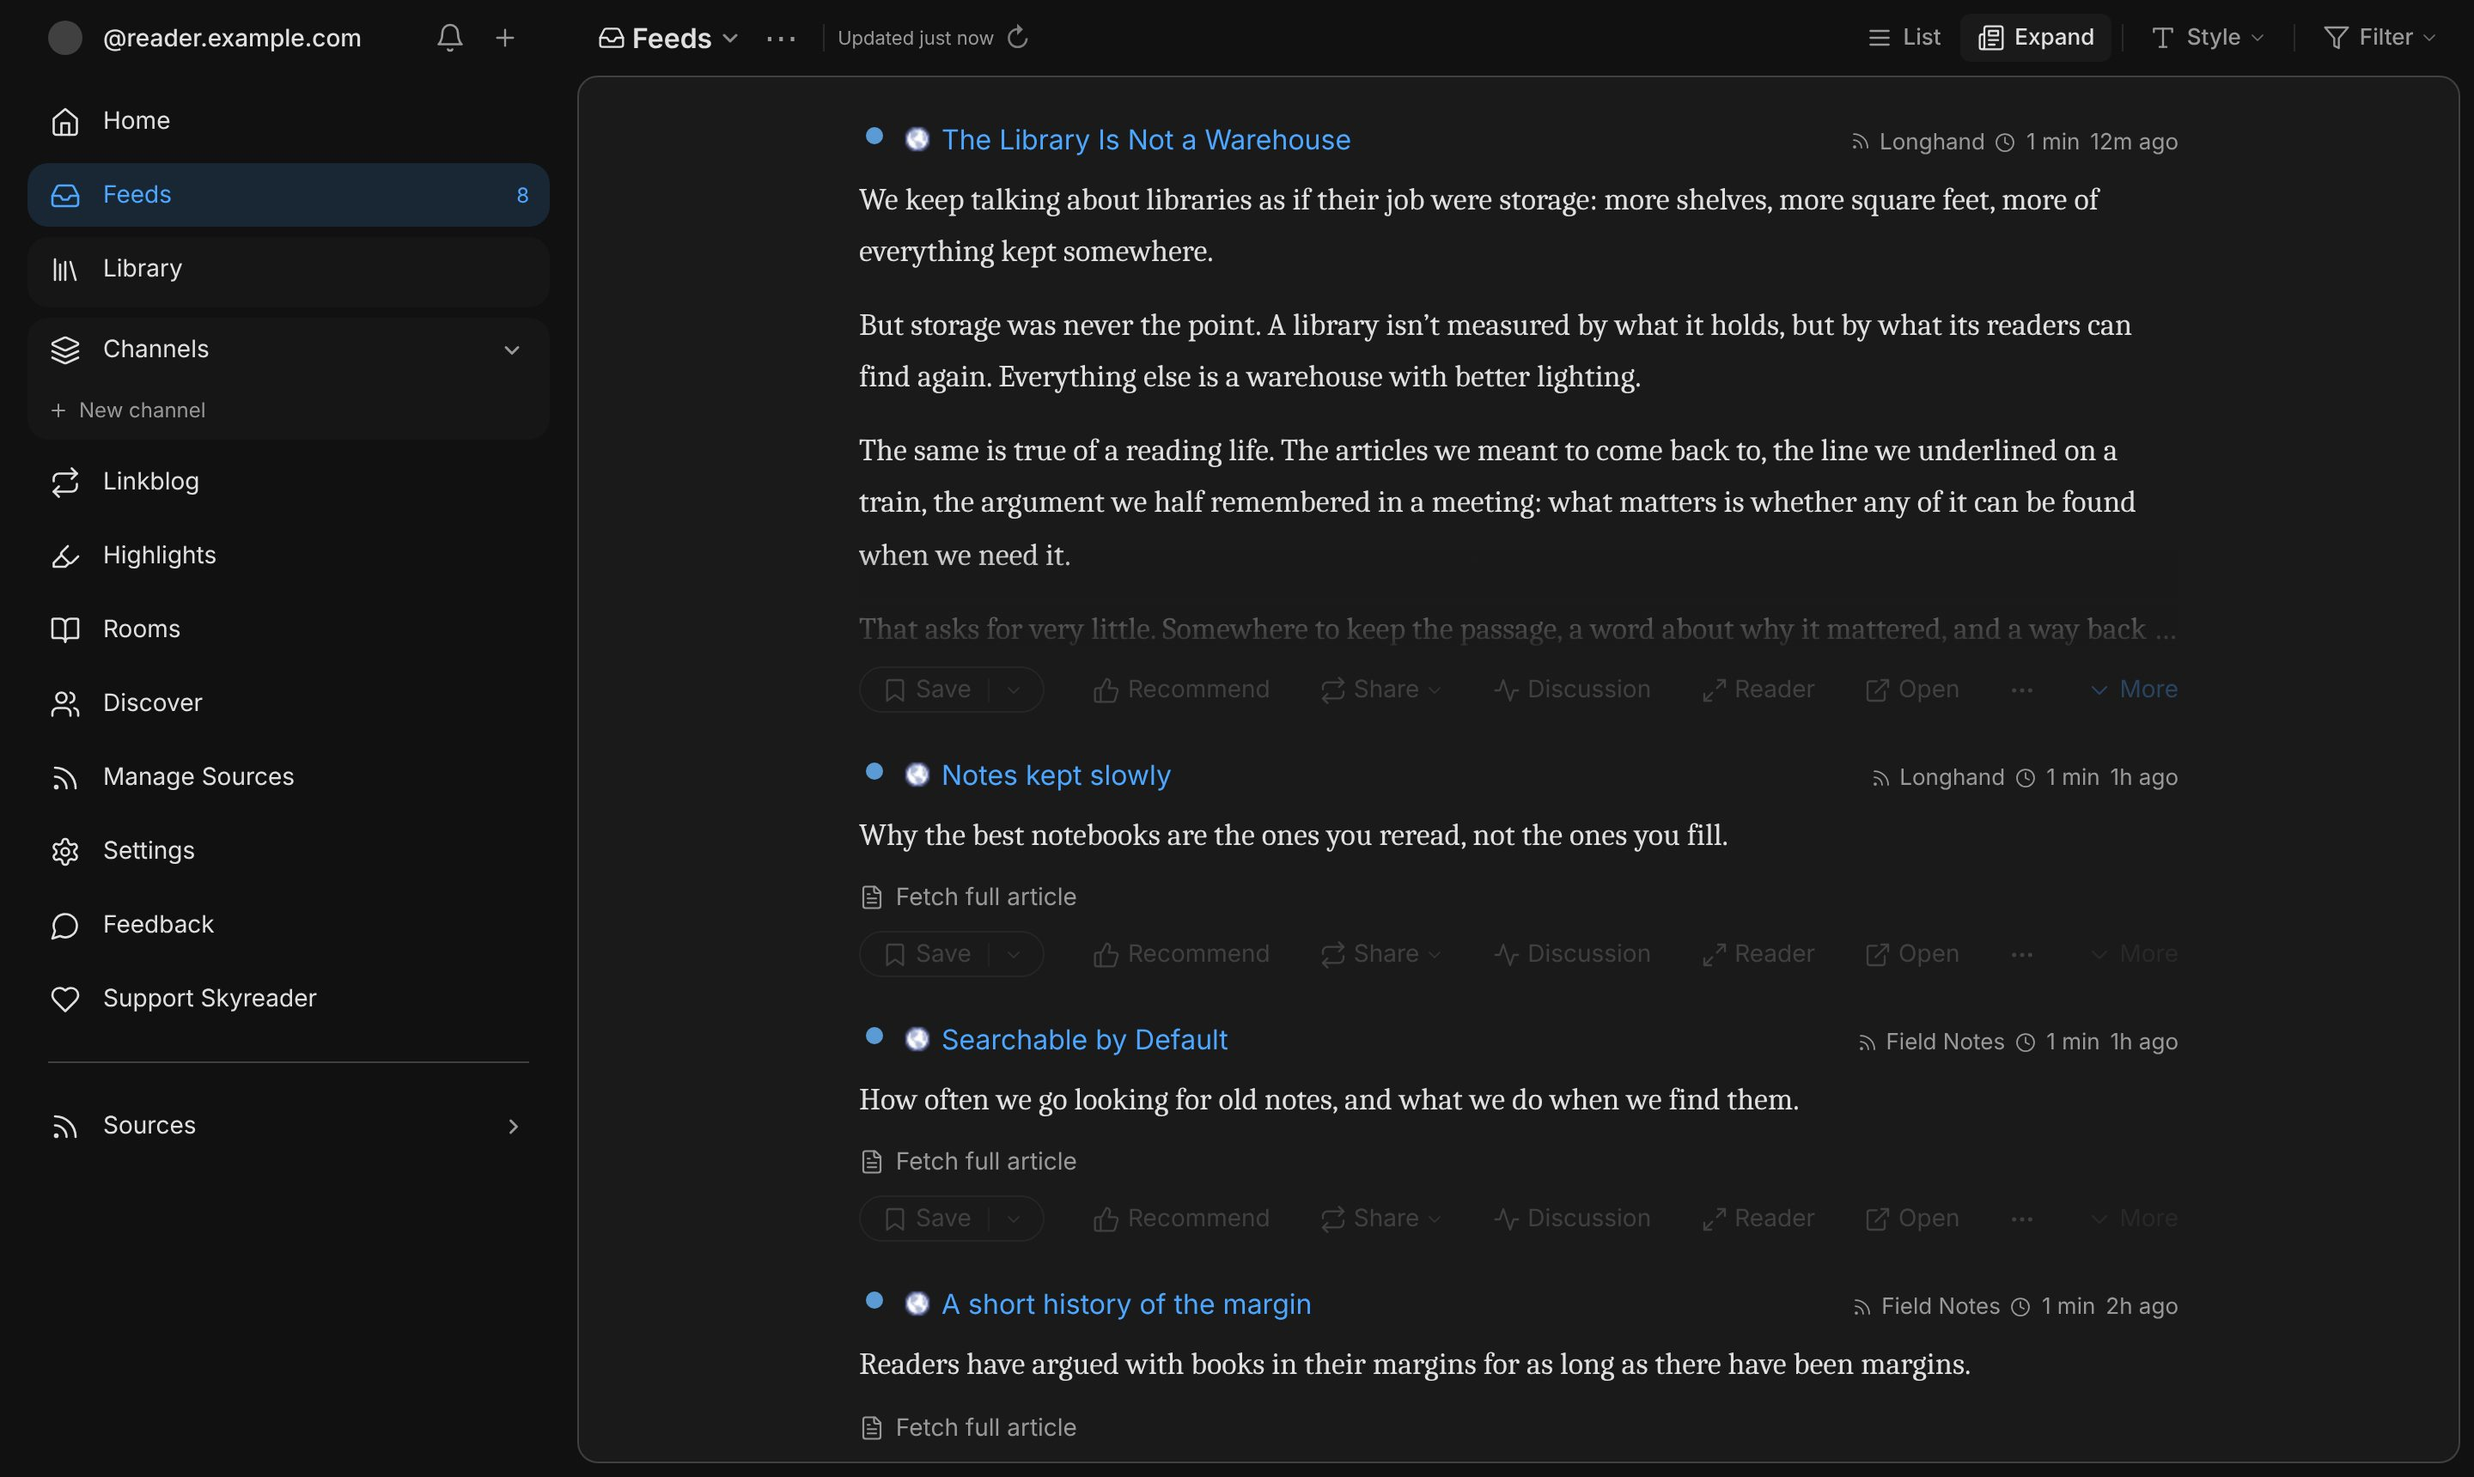
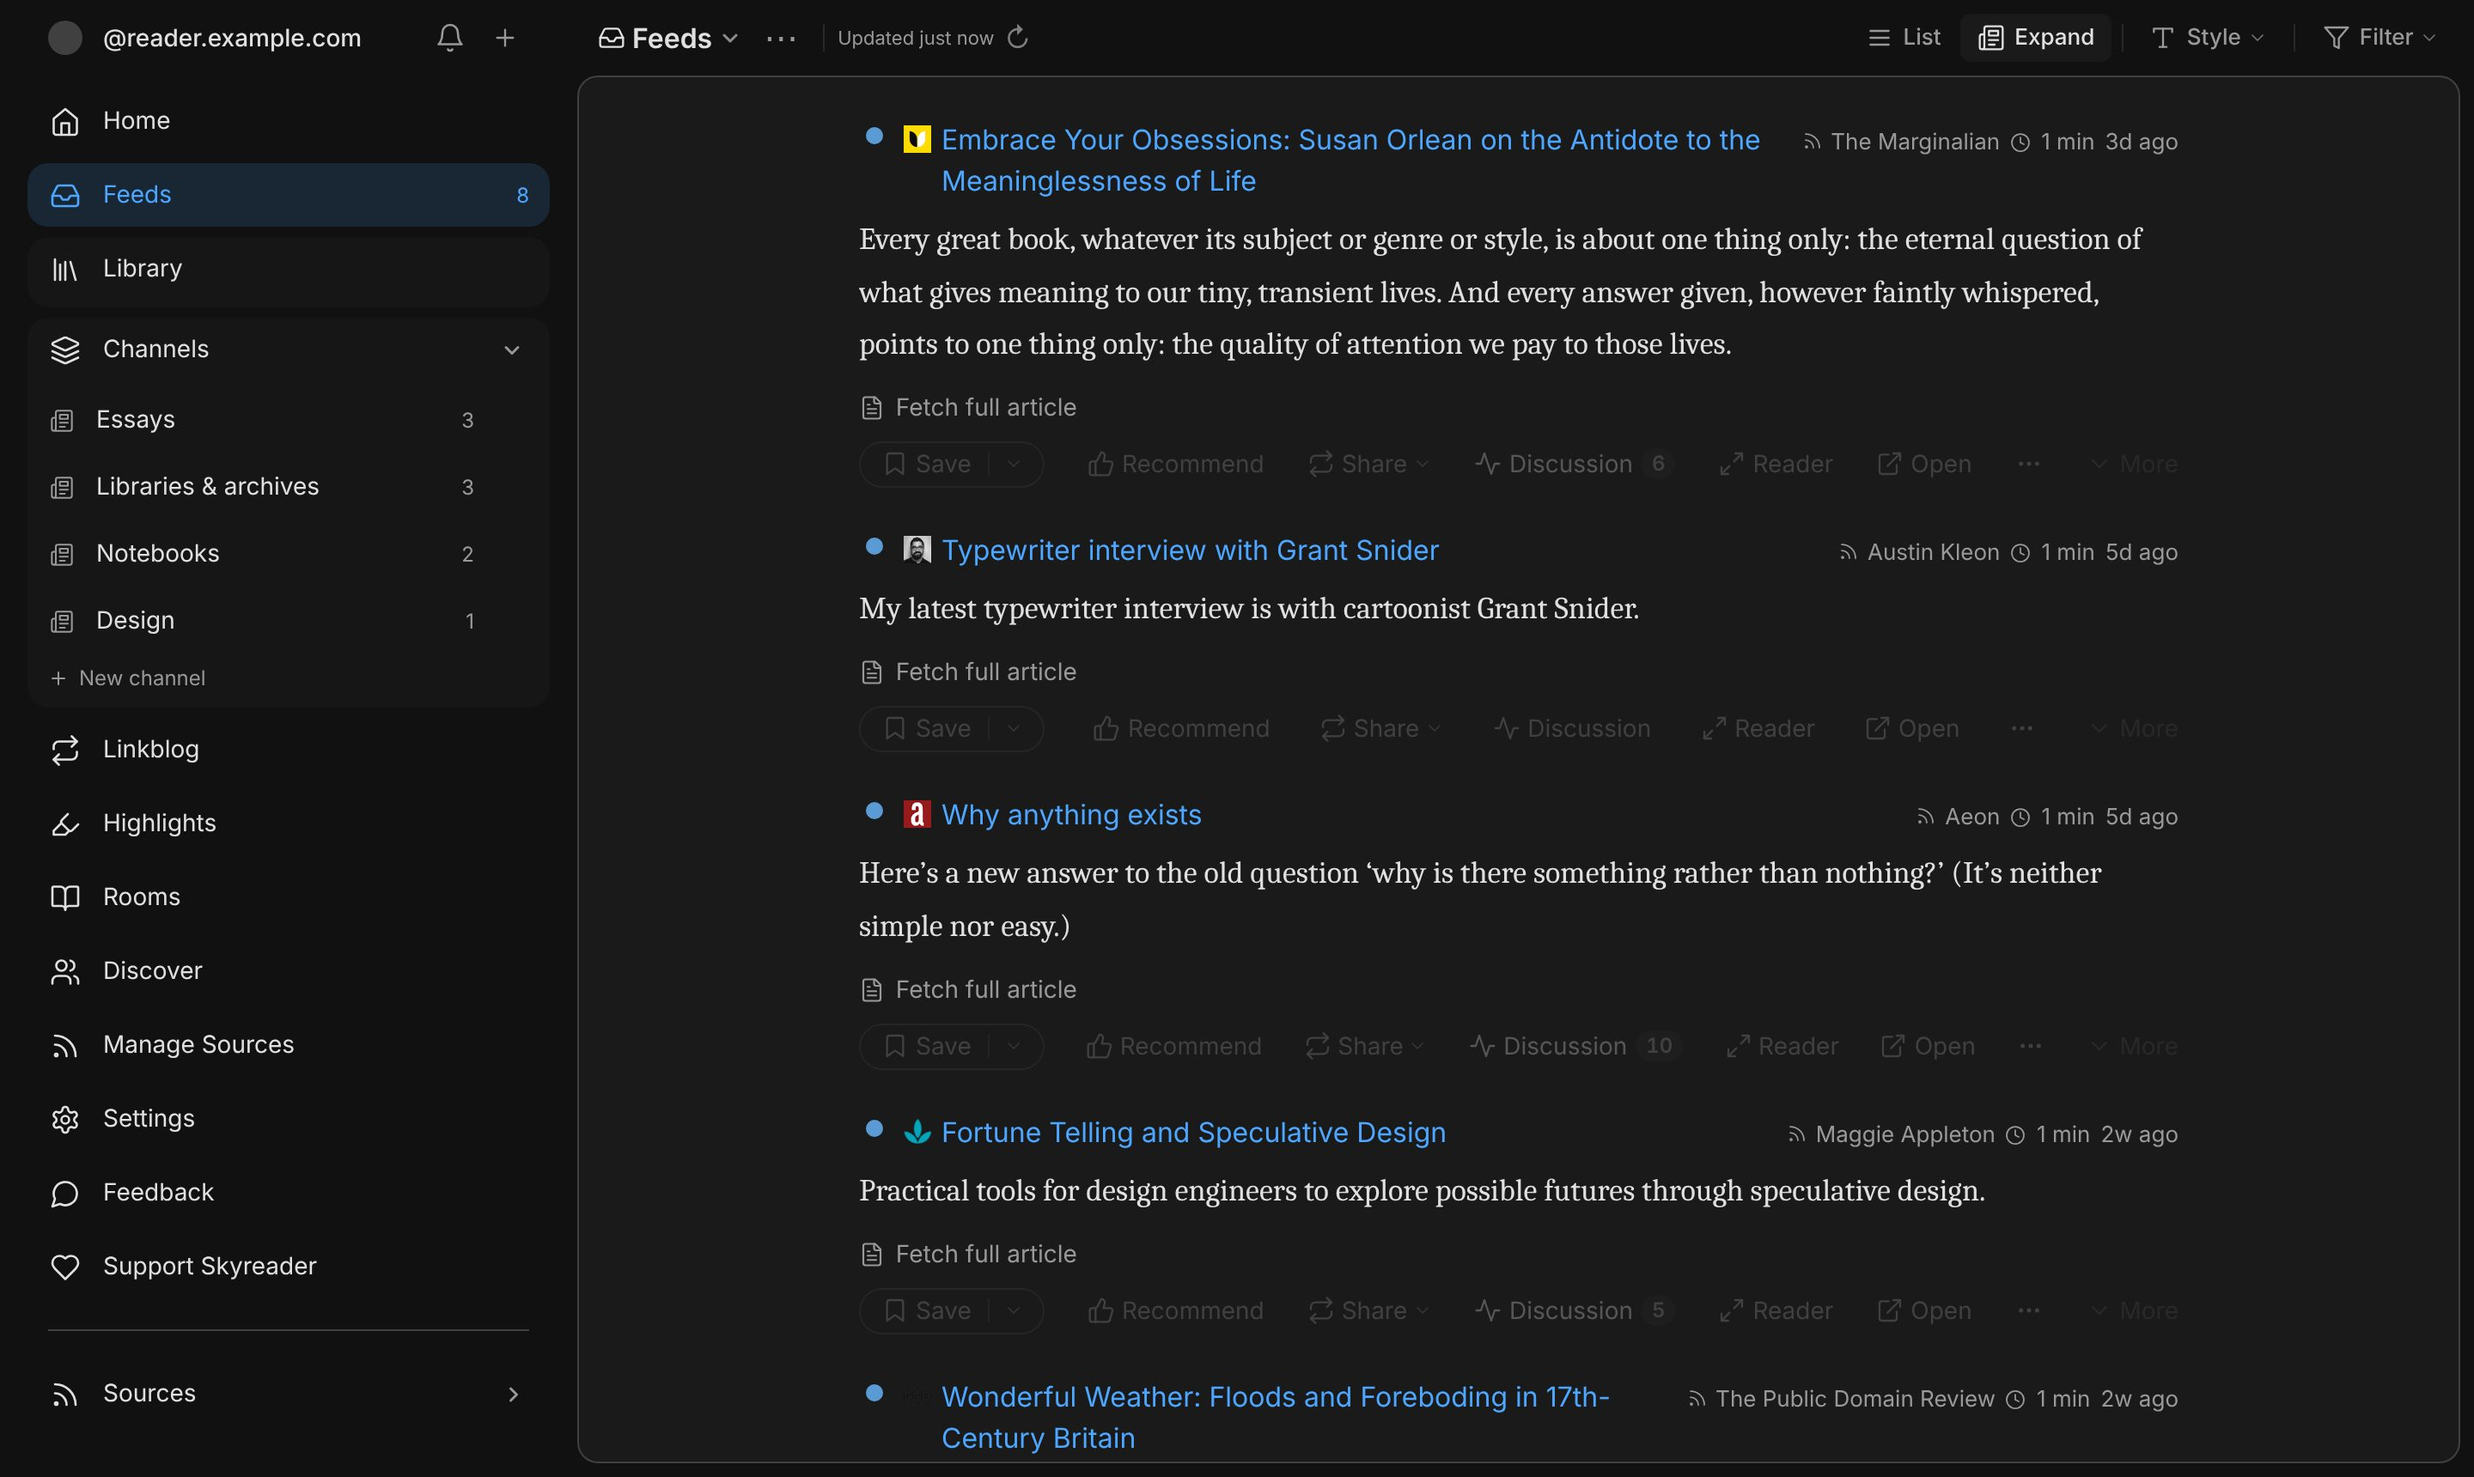
Landing hero: real publications and example channels
The hero screenshot now reads real feeds (The Marginalian, Aeon, Austin
Kleon, Maggie Appleton, The Public Domain Review, The Signal, Craig Mod)
with articles each actually ran, so the app shows their real favicons,
and the sidebar carries four example channels, each reading from its
own feeds.

Claude-Session: https://claude.ai/code/session_014mh1a47NQDFgxNbrH1TKq5

diff --git a/e2e-docs/landing-hero.spec.ts b/e2e-docs/landing-hero.spec.ts
@@ -1,96 +1,145 @@
 // The landing page's hero: the whole app, as a reader sees it, in light and
 // dark. Rides the docs-shots stack (`npm run shots:docs`), but writes into the
-// frontend's static assets, since the landing page serves it. Every feed, title
-// and handle here is a sample; the handle is swapped for a reserved one.
+// frontend's static assets, since the landing page serves it. The feeds are
+// real; the test user's handle is swapped for a reserved one.
 import { mkdirSync } from 'node:fs';
 import { join } from 'node:path';
 import { test, expect } from '../e2e/fixtures';
-import { seedSubscription, seedFeedItems, cleanupFeedItems } from '../e2e/seed';
+import { seedSubscription, seedFeedItems, cleanupFeedItems, seedChannel } from '../e2e/seed';
 
 const OUT_DIR = join(import.meta.dirname, '../frontend/static/landing');
 mkdirSync(OUT_DIR, { recursive: true });
 
-const FEEDS = [
+// Real publications, with articles each one actually ran (titles, links, dates
+// and summaries from its own feed), so the sidebar wears their real favicons.
+// Picked for a reader who reads to understand: attention, notebooks, libraries.
+// Summaries only, as a feed reader shows them; no article bodies.
+type Item = { guid: string; title: string; summary: string; url: string; date: string };
+const FEEDS: { key: string; url: string; title: string; items: Item[] }[] = [
   {
-    url: 'https://longhand.example/feed.xml',
-    title: 'Longhand',
+    key: 'marginalian',
+    url: 'https://www.themarginalian.org/feed/',
+    title: 'The Marginalian',
     items: [
-      [
-        'the-library',
-        'The Library Is Not a Warehouse',
-        'A library isn’t measured by what it holds, but by what its readers can find again.',
-      ],
-      [
-        'slow-notes',
-        'Notes kept slowly',
-        'Why the best notebooks are the ones you reread, not the ones you fill.',
-      ],
+      {
+        guid: 'susan-orlean',
+        title:
+          'Embrace Your Obsessions: Susan Orlean on the Antidote to the Meaninglessness of Life',
+        summary:
+          'Every great book, whatever its subject or genre or style, is about one thing only: the eternal question of what gives meaning to our tiny, transient lives. And every answer given, however faintly whispered, points to one thing only: the quality of attention we pay to those lives.',
+        url: 'https://www.themarginalian.org/2026/11/14/susan-orlean-orchid-thief/',
+        date: '2026-11-14T14:31:26Z',
+      },
     ],
   },
   {
-    url: 'https://fieldnotes.example/feed.xml',
-    title: 'Field Notes',
+    key: 'aeon',
+    url: 'https://aeon.co/feed.rss',
+    title: 'Aeon',
     items: [
-      [
-        'searchable',
-        'Searchable by Default',
-        'How often we go looking for old notes, and what we do when we find them.',
-      ],
-      [
-        'margins',
-        'A short history of the margin',
-        'Readers have argued with books in their margins for as long as there have been margins.',
-      ],
+      {
+        guid: 'why-anything-exists',
+        title: 'Why anything exists',
+        summary:
+          'Here’s a new answer to the old question ‘why is there something rather than nothing?’ (It’s neither simple nor easy.)',
+        url: 'https://aeon.co/essays/a-new-answer-to-why-there-is-something-rather-than-nothing',
+        date: '2026-11-12T11:00:00Z',
+      },
     ],
   },
   {
-    url: 'https://weeknotes.example/feed.xml',
-    title: 'Weeknotes',
+    key: 'kleon',
+    url: 'https://austinkleon.com/feed/',
+    title: 'Austin Kleon',
     items: [
-      [
-        'weeknotes-112',
-        'Weeknotes 112: the garden, the move',
-        'Boxes, tomatoes, and a reading list that survived both.',
-      ],
+      {
+        guid: 'grant-snider',
+        title: 'Typewriter interview with Grant Snider',
+        summary: 'My latest typewriter interview is with cartoonist Grant Snider.',
+        url: 'https://austinkleon.com/2026/11/12/typewriter-interview-with-grant-snider/',
+        date: '2026-11-12T18:18:20Z',
+      },
     ],
   },
   {
-    url: 'https://typesetter.example/feed.xml',
-    title: 'The Typesetter',
+    key: 'appleton',
+    url: 'https://maggieappleton.com/rss.xml',
+    title: 'Maggie Appleton',
     items: [
-      [
-        'measure',
-        'Measure, leading, and the comfortable line',
-        'Sixty-six characters is not a rule. It is a description of where most eyes stop straining.',
-      ],
-      [
-        'quiet-pages',
-        'In praise of quiet pages',
-        'What a page leaves out is half of what makes it easy to read.',
-      ],
+      {
+        guid: 'fortune-telling',
+        title: 'Fortune Telling and Speculative Design',
+        summary:
+          'Practical tools for design engineers to explore possible futures through speculative design.',
+        url: 'https://maggieappleton.com/fortune-telling',
+        date: '2026-11-04T00:00:00Z',
+      },
     ],
   },
   {
-    url: 'https://cityriver.example/feed.xml',
-    title: 'City & River',
+    key: 'pdr',
+    url: 'https://publicdomainreview.org/rss.xml',
+    title: 'The Public Domain Review',
     items: [
-      [
-        'floods',
-        'How cities remember floods',
-        'Watermarks on old walls are a city’s footnotes. Most of us walk past them.',
-      ],
+      {
+        guid: 'wonderful-weather',
+        title: 'Wonderful Weather: Floods and Foreboding in 17th-Century Britain',
+        summary:
+          'When the Bristol Channel flooded in 1607, it was not just one of the worst natural disasters in British history, it was also a sign, for many, that they had strayed from the path of God.',
+        url: 'https://publicdomainreview.org/essay/wonderful-weather',
+        date: '2026-10-28T15:47:00Z',
+      },
     ],
   },
-] as const;
+  {
+    key: 'signal',
+    url: 'https://blogs.loc.gov/thesignal/feed/',
+    title: 'The Signal',
+    items: [
+      {
+        guid: 'embedded-catalog',
+        title: 'AI Sandbox Series: The Embedded Catalog',
+        summary:
+          'The latest in a series on the Library of Congress’s AI Sandbox: experiments in text recognition and searchability, metadata, and more.',
+        url: 'https://blogs.loc.gov/thesignal/2026/10/ai-sandbox-series-embedded-catalog/',
+        date: '2026-10-26T17:41:42Z',
+      },
+      {
+        guid: 'preserving-more-than-the-web',
+        title:
+          'Preserving More Than the Web: Building an Archive of Online Resources for Preservation and Conservation',
+        summary:
+          'How web archiving is supporting the work of conservators and preservation scientists at the Library, and how the archive can help future researchers understand the history of the field.',
+        url: 'https://blogs.loc.gov/thesignal/2026/10/preserving-more-than-the-web-building-an-archive-of-online-resources-for-preservation-and-conservation/',
+        date: '2026-10-22T15:30:21Z',
+      },
+    ],
+  },
+  {
+    key: 'mod',
+    url: 'https://craigmod.com/index.xml',
+    title: 'Craig Mod',
+    items: [
+      {
+        guid: 'notebook-fit-for-a-walk',
+        title: '[RIDGELINE] A Notebook Fit for a Walk',
+        summary:
+          'I made a notebook. I didn’t mean to make a notebook but, you see, I had no choice.',
+        url: 'https://craigmod.com/ridgeline/237/',
+        date: '2026-10-19T00:00:00Z',
+      },
+    ],
+  },
+];
 
-const LIBRARY_BODY = [
-  'We keep talking about libraries as if their job were storage: more shelves, more square feet, more of everything kept somewhere.',
-  'But storage was never the point. A library isn’t measured by what it holds, but by what its readers can find again. Everything else is a warehouse with better lighting.',
-  'The same is true of a reading life. The articles we meant to come back to, the line we underlined on a train, the argument we half remembered in a meeting: what matters is whether any of it can be found when we need it.',
-  'That asks for very little. Somewhere to keep the passage, a word about why it mattered, and a way back to it. The rest is habit.',
-]
-  .map((p) => `<p>${p}</p>`)
-  .join('');
+// A few channels, so the sidebar looks like a reader's, not a fresh account's.
+// Each names the feeds it reads from, so their counts differ the way a reader's would.
+const CHANNELS = [
+  { name: 'Essays', feeds: ['marginalian', 'aeon', 'pdr'] },
+  { name: 'Libraries & archives', feeds: ['signal', 'pdr'] },
+  { name: 'Notebooks', feeds: ['mod', 'kleon'] },
+  { name: 'Design', feeds: ['appleton'] },
+];
 
 const SHOTS = [
   { name: 'desktop', viewport: { width: 1440, height: 860 }, scale: 2 },
@@ -103,21 +152,28 @@ for (const shot of SHOTS) {
 
     for (const scheme of ['light', 'dark'] as const) {
       test(`the app, ${scheme}`, async ({ authedPage, testUser }) => {
-        let n = 0;
+        const rkeys = new Map<string, string>();
         for (const feed of FEEDS) {
-          await seedSubscription(testUser, { feedUrl: feed.url, title: feed.title });
+          const rkey = await seedSubscription(testUser, { feedUrl: feed.url, title: feed.title });
+          rkeys.set(feed.key, rkey);
           await seedFeedItems(
             feed.url,
-            feed.items.map(([guid, title, summary]) => ({
-              guid,
-              title,
-              summary,
-              url: `https://${new URL(feed.url).hostname}/${guid}`,
-              content: guid === 'the-library' ? LIBRARY_BODY : undefined,
-              publishedAt: new Date(Date.now() - (n++ * 53 + 12) * 60_000).toISOString(),
-            })),
+            feed.items.map(({ date, ...item }) => ({ ...item, publishedAt: date })),
             { title: feed.title }
           );
+        }
+        for (const [i, channel] of CHANNELS.entries()) {
+          await seedChannel(testUser, {
+            uuid: `00000000-0000-4000-8000-0000000000${String(i + 1).padStart(2, '0')}`,
+            name: channel.name,
+            config: {
+              readFilter: 'all',
+              sortOrder: 'newest',
+              sourceMode: 'include',
+              sourceKeys: channel.feeds.map((f) => `rss~${rkeys.get(f)}`),
+            },
+            position: i,
+          });
         }
         try {
           await authedPage.emulateMedia({ colorScheme: scheme });
@@ -130,7 +186,7 @@ for (const shot of SHOTS) {
             localStorage.setItem('skyreader-auth', JSON.stringify(parsed));
           });
           await authedPage.goto('/feeds');
-          await expect(authedPage.getByText('The Library Is Not a Warehouse').first()).toBeVisible({
+          await expect(authedPage.getByText(FEEDS[0].items[0].title).first()).toBeVisible({
             timeout: 15_000,
           });
           // The one-time "links from people you follow" offer isn't the app.
